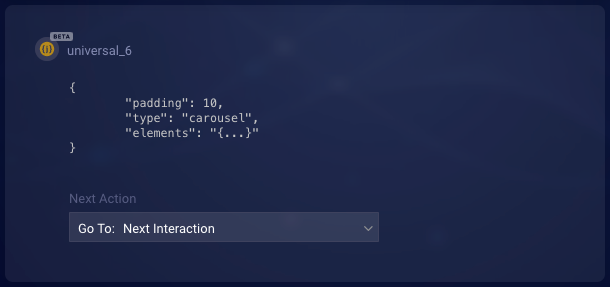
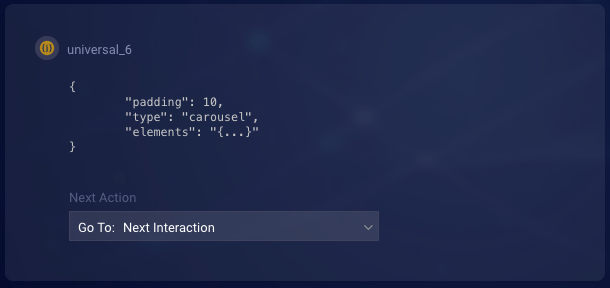
Update doc on Universal tile

diff --git a/pages/Documents/ConversationalAI/ConversationBuilder/Interactions/code.md b/pages/Documents/ConversationalAI/ConversationBuilder/Interactions/code.md
@@ -9,9 +9,9 @@ permalink: conversation-builder-interactions-code.html
 indicator: both
 ---
 
-### Universal interactions (Beta)
+### Universal interactions
 
-Is there a cutting-edge interaction in a channel that you want to implement in your bot? Do you want to fast track its usage now, before support is added to the interactions in Conversation Builder? There’s no need to wait. Conversation Builder includes a “Universal” interaction, **now in Beta release**, to meet this need.
+Is there a cutting-edge interaction in a channel that you want to implement in your bot? Do you want to fast track its usage now, before support is added to the interactions in Conversation Builder? There’s no need to wait. Conversation Builder includes a “Universal” interaction to meet this need.
 
 ![Carousel](img/ConvoBuilder/interactions_universal.gif)
 
